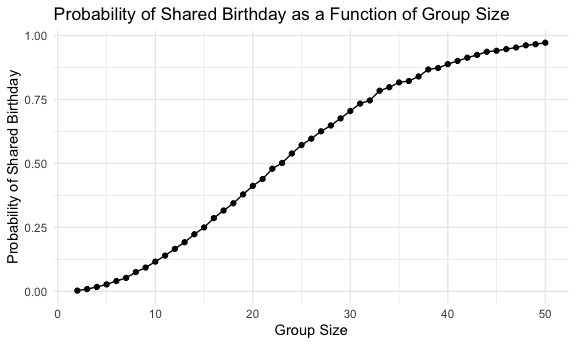
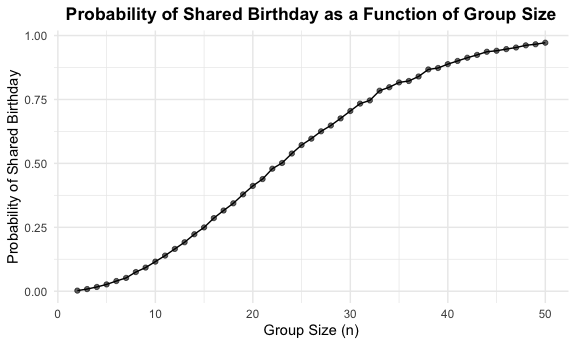
.

diff --git a/p8105_hw5_dw3093.md b/p8105_hw5_dw3093.md
@@ -5,34 +5,75 @@ Katherine Wang
 \#Question 1
 
 ``` r
-shared_birthday <- function(n) {
-  birthdays <- sample(1:365, n, replace = TRUE) 
-  return(any(duplicated(birthdays)))
+shared_bday <- function(n) {
+  bday <- sample(1:365, size = n, replace = TRUE) 
+  return(any(duplicated(bday)))
 }
-
 group_sizes <- 2:50
-num_simulations <- 10000
+n_simulation <- 10000
 
-probabilities <- numeric(length(group_sizes))
-
+prob <- numeric(length(group_sizes))
 for (i in seq_along(group_sizes)) {
   group_size <- group_sizes[i]
 
-  results <- replicate(num_simulations, shared_birthday(group_size))
-  probabilities[i] <- mean(results)
+  results <- replicate(n_simulation, shared_bday(group_size))
+  prob[i] <- mean(results)
 }
-results_df <- data.frame(
+results <- data.frame(
   group_size = group_sizes,
-  probability = probabilities
+  probability = prob
 )
-ggplot(results_df, aes(x = group_size, y = probability)) +
+
+ggplot(results, aes(x = group_size, y = probability)) +
   geom_line() +
-  geom_point() +
+  geom_point(alpha=.6) +
   labs(
     title = "Probability of Shared Birthday as a Function of Group Size",
-    x = "Group Size",
+    x = "Group Size (n)",
     y = "Probability of Shared Birthday"
-  ) 
+  ) +
+  theme(
+    plot.title = element_text(hjust = 0.5, face = "bold")
+  )
 ```
 
 <img src="p8105_hw5_dw3093_files/figure-gfm/unnamed-chunk-2-1.png" width="90%" />
+We can conclude that the probability of a shared birthday is low with
+small group sizes. However, as the group size increases, the probability
+rises sharply, reaching over 50% by around 23 people and approaching
+near certainty by 50 people.
+
+\#Question 2 Set up parameters as question required
+
+``` r
+n <- 30
+sigma <- 5
+alpha <- 0.05
+mu_values <- 0:6
+n_simulations <- 5000
+```
+
+Function to simulate data
+
+``` r
+t_test <- function(mu) {
+  x <- rnorm(n = n, mean = mu, sd = sigma)
+  t_stats <- t.test(x, mu = 0) |>
+    broom::tidy() |>
+    select(estimate, p.value) 
+  return(t_stats)
+}
+```
+
+Generate simulation results for each mu value
+
+``` r
+simulation_results <- tibble(
+  mu = rep(mu_values, each = n_simulations),
+  iter = rep(1:n_simulations, times = length(mu_values))
+) |>
+  mutate(
+    t_test_output = map(mu, t_test)
+  ) |>
+  unnest(cols = t_test_output)
+```
